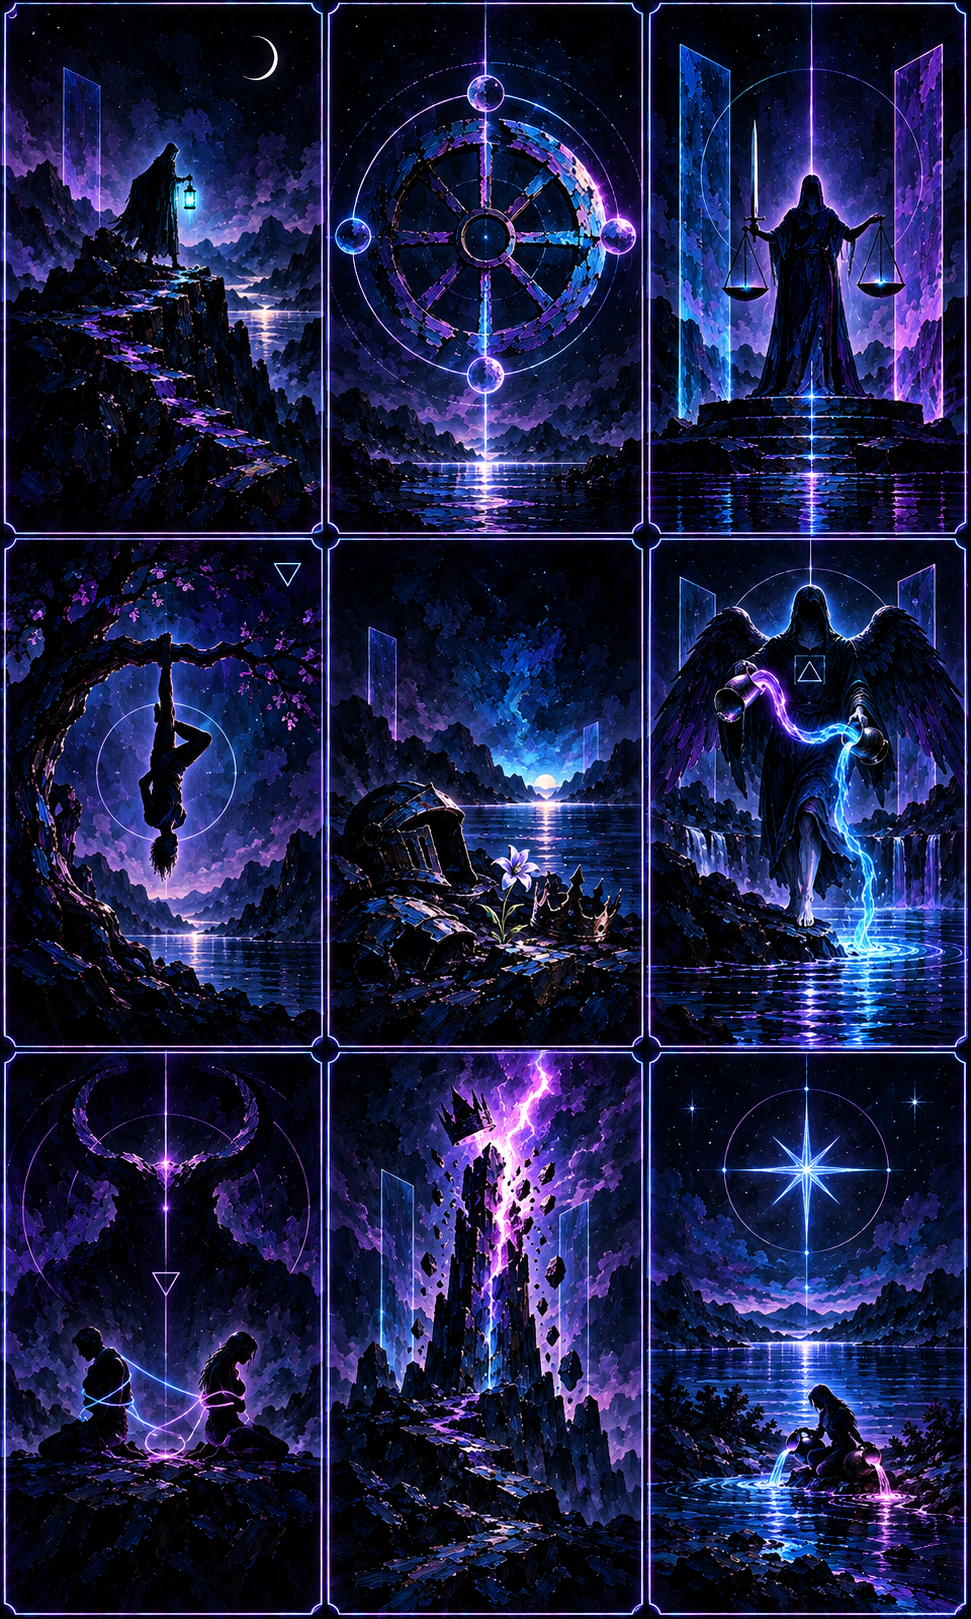
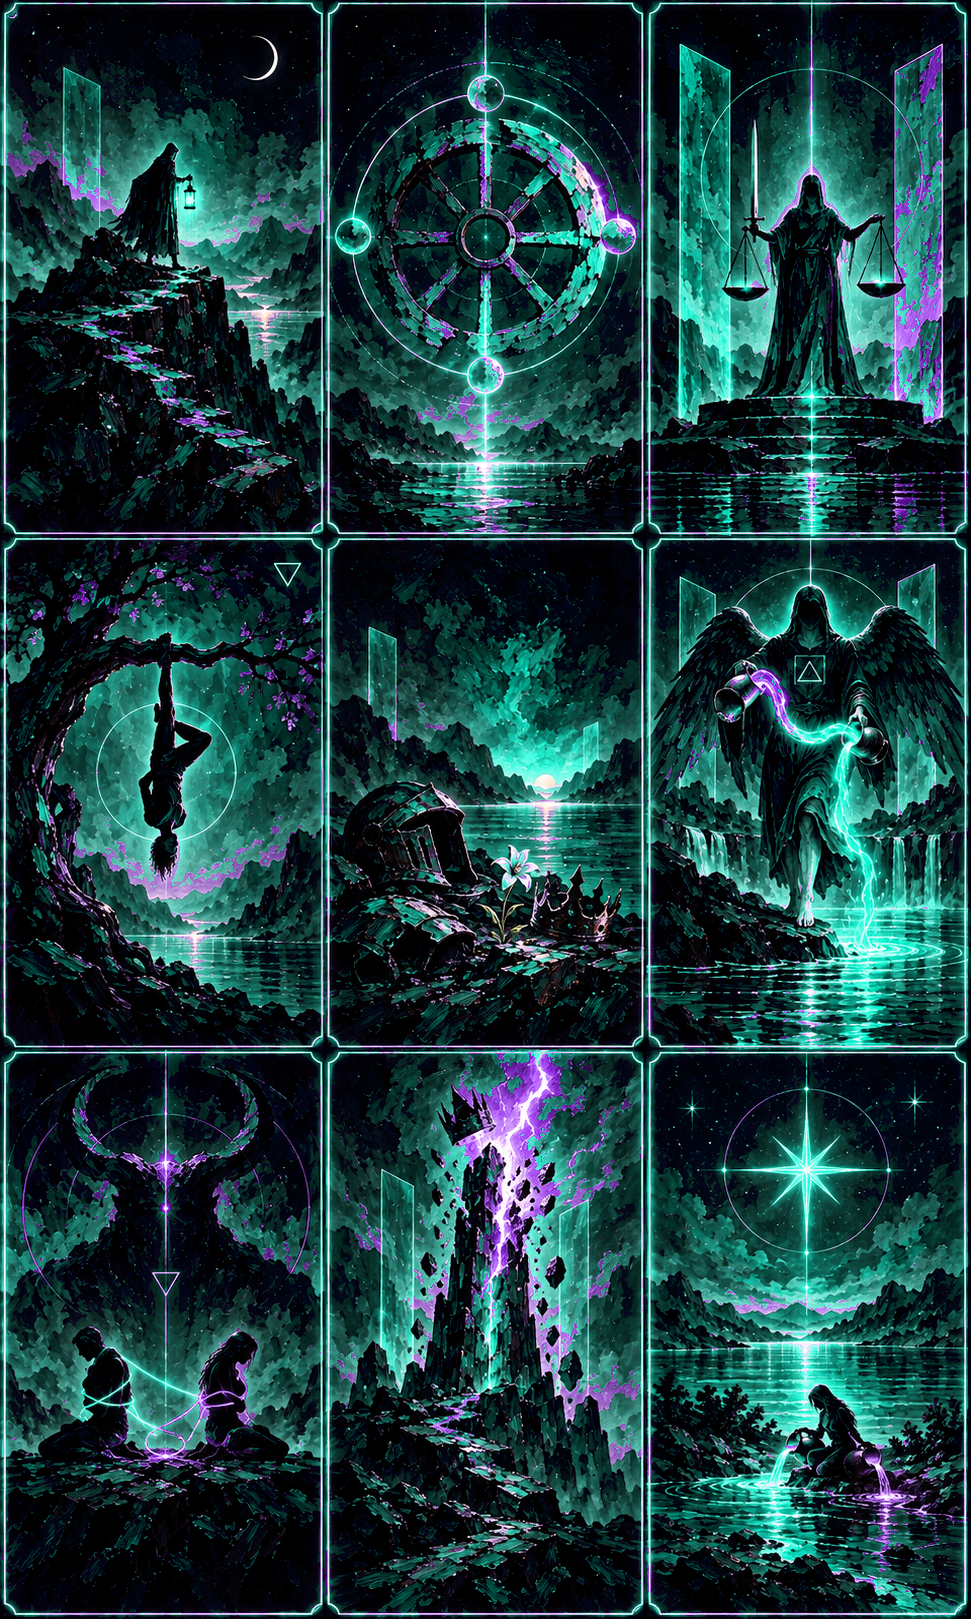
Shift Astrerium palette to turquoise and electric violet

diff --git a/cartomancy_engine/android-app/recolor_neon_palette.py b/cartomancy_engine/android-app/recolor_neon_palette.py
@@ -1,0 +1,72 @@
+"""Re-map the approved Neon Cyberspace palette while preserving texture and value.
+
+The hue ranges are deliberately narrow enough to leave warm paint, skin, stone,
+and neutral shadows intact. Saturation and value stay pixel-local so the
+chiaroscuro and brush texture survive the palette change.
+"""
+from colorsys import rgb_to_hsv, hsv_to_rgb
+from hashlib import sha256
+import json
+from pathlib import Path
+from PIL import Image
+
+ROOT = Path(__file__).resolve().parent
+ASSETS = ROOT / "app/src/main/assets/astrerium"
+BLUE = "#00FFDA"
+VIOLET = "#8e00ff"
+TARGET_BLUE_H = 0x00FFDA / 255.0  # retained in metadata as the requested swatch
+TARGET_VIOLET_H = 0x8e00ff / 255.0
+
+def map_hue(h):
+    # HSV hue ranges found in the generated card sheets. The endpoints are
+    # intentionally kept away from red/orange/yellow and low-saturation paint.
+    if 0.45 <= h <= 0.72:
+        return 0.475, "blue"
+    if 0.72 < h <= 0.98:
+        return 0.758, "violet"
+    return None, None
+
+def recolor(path):
+    image = Image.open(path).convert("RGBA")
+    pixels = list(image.getdata())
+    counts = {"blue": 0, "violet": 0}
+    out = []
+    for r, g, b, a in pixels:
+        h, s, v = rgb_to_hsv(r / 255, g / 255, b / 255)
+        target, name = map_hue(h) if s >= 0.2 and v >= 0.12 else (None, None)
+        if target is not None:
+            counts[name] += 1
+            rr, gg, bb = hsv_to_rgb(target, s, v)
+            out.append((round(rr * 255), round(gg * 255), round(bb * 255), a))
+        else:
+            out.append((r, g, b, a))
+    image.putdata(out)
+    image.save(path, format="PNG", optimize=True)
+    return counts
+
+def main():
+    records = {}
+    for path in sorted(ASSETS.glob("*.png")):
+        counts = recolor(path)
+        records[path.name] = {
+            "sha256": sha256(path.read_bytes()).hexdigest(),
+            "pixels_remapped": counts,
+        }
+    index_path = ASSETS / "index.json"
+    index = json.loads(index_path.read_text(encoding="utf-8"))
+    index["palette_revision"] = 1
+    index["palette"] = {
+        "blue_source": "blue/cyan hues 162–259 degrees",
+        "blue_target": BLUE,
+        "violet_source": "violet/magenta hues 259–353 degrees",
+        "violet_target": VIOLET,
+        "method": "hue remap with local saturation/value preserved; warm and neutral pixels untouched",
+        "assets": records,
+    }
+    # The index's existing file hashes are the source-of-truth used by the app.
+    index["files"] = {name: record["sha256"] for name, record in records.items() if name.startswith("neon-")}
+    index_path.write_text(json.dumps(index, indent=2) + "\n", encoding="utf-8")
+    print(json.dumps({"assets": len(records), "remapped": records}, indent=2))
+
+if __name__ == "__main__":
+    main()

diff --git a/cartomancy_engine/android-app/NEON-ART-DIRECTION.md b/cartomancy_engine/android-app/NEON-ART-DIRECTION.md
@@ -2,6 +2,10 @@
 
 Edition 0.5.0. Generated using the built-in OpenAI image-generation tool; native Android typography, borders, elemental seals, launcher and splash marks are code-native vectors. All consumed paintings are copied into app/src/main/assets/astrerium. No raster pixels were programmatically edited. The index selects inspected display bounds. The approved Moon, Temperance and Chariot originals remain individually packaged; their painted title strips are excluded from the display rectangle because titles remain upright native text.
 
+## Palette revision 1
+
+The complete card and environment image set retains its local luminance and painterly texture while remapping saturated blue/cyan light to `#00FFDA` and saturated violet/magenta light to `#8e00ff`. Warm paint, neutral stone, skin tones, and near-black shadows remain untouched. The exact post-pass hashes and pixel counts are recorded in `astrerium/index.json`.
+
 ## Shared prompt
 
 Create a production tarot artwork ATLAS, exactly 3 columns x 3 rows of equally sized portrait panels edge-to-edge, total portrait aspect 3:5. Each panel itself 3:5. Precise straight seams at one third and two thirds of width and height, no gutters or margins. NO TEXT, NO TITLES, NO NUMERALS. Each cell is an individual complete centered composition with generous dark breathing space and no overlap across cells. Kybernion Astrerium: minimalist HIGH CONTRAST NEON RAVE CYBERSPACE CHIAROSCURO, not literal rave imagery. Deep near-black indigo textured shadows occupy 65 percent. Tactile Monet-like impressionist broken-color impasto water and stone, expressive geometrical painted facets juxtaposed inside every panel with sparse transparent data planes, phase-shifted sampled waves and thin optical trajectories. Saturated electric cyan, ultraviolet and selective hot magenta light with thin near-white emission cores and restrained local bloom, retain texture in light AND shadow. No golden radiance, no starburst, no glitter, no circuit boards, no machinery, no HUD clutter, no sci-fi vehicles, no photoreal faces, no party objects. Quiet fine cyan-violet border per cell. Sparse alchemical triangle accents only when appropriate. Symbolic narrative strong silhouettes; small anonymous characters when needed. Classical balanced composition with visual counterpoint.
